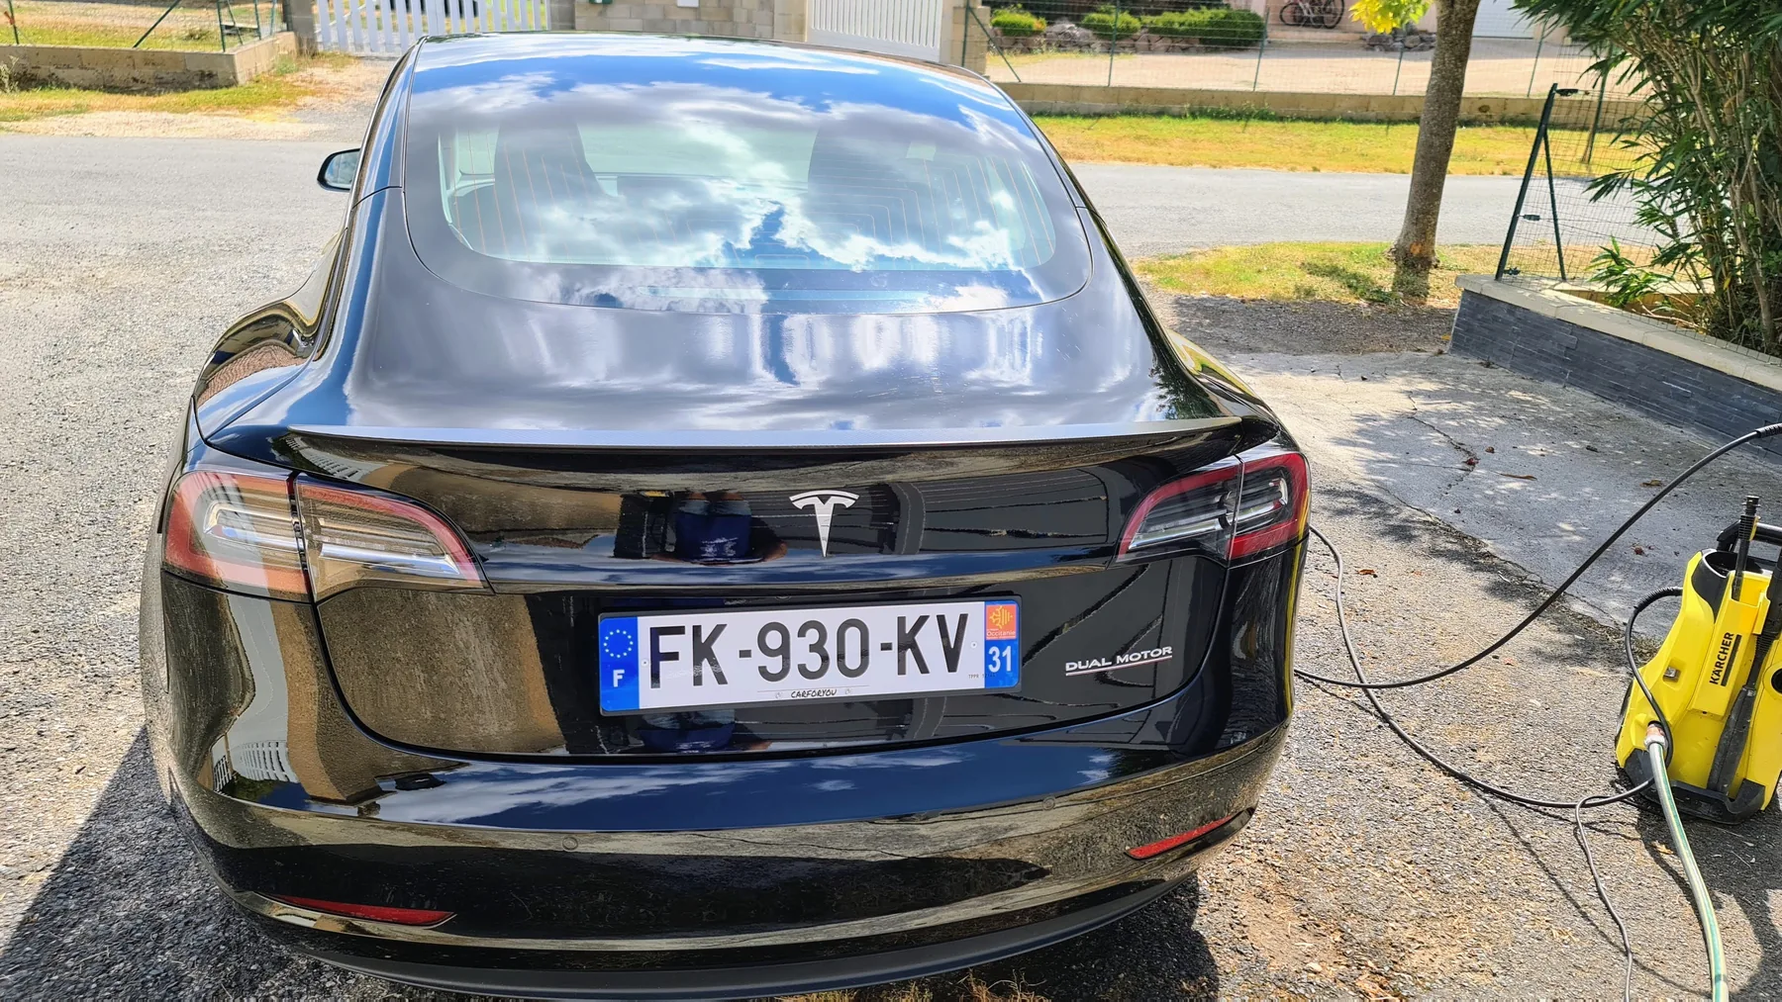
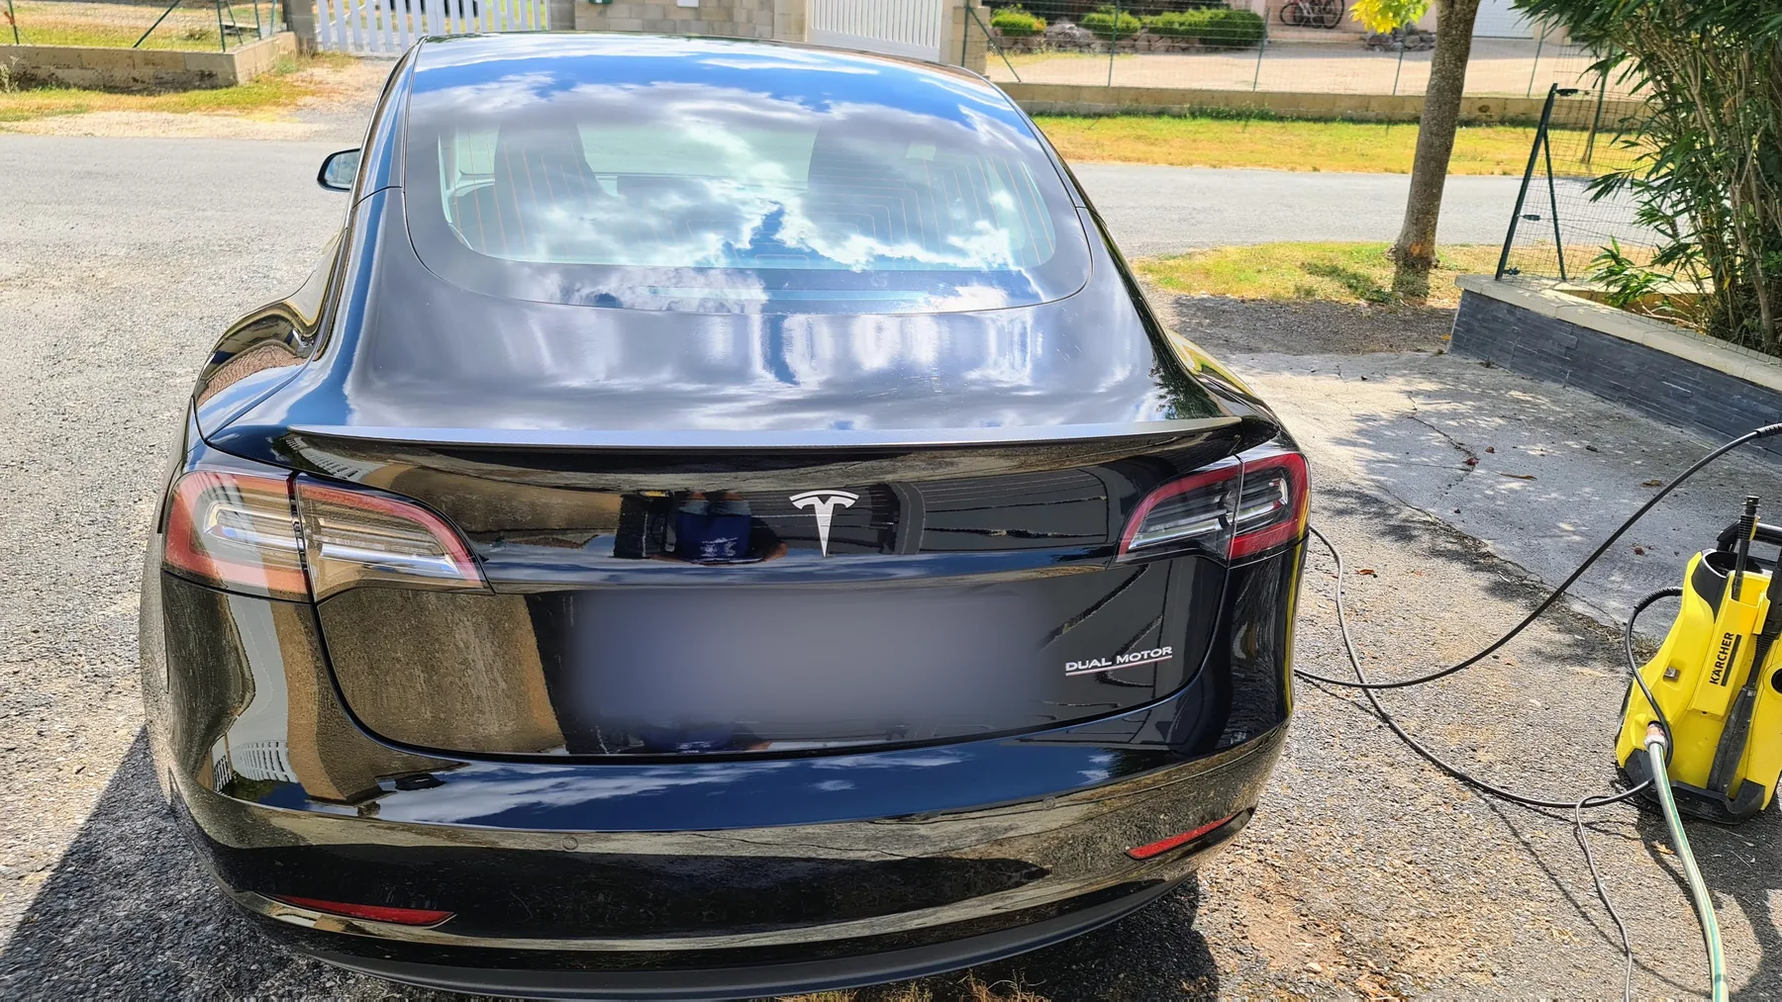
Site : plaques floutées, téléphone éclaté, loupe plus petite
Plaques d'immatriculation floutées sur les photos publiées (depuis les
originaux). Bande d'écrans remplacée par un chapitre où le téléphone
arrive en couches séparées puis se rassemble et fait défiler les six
écrans, d'après Shopify Editions été 2025. Vrai modèle de téléphone en
CSS, écrans en entier, barre d'état à la couleur de l'écran ; le
téléphone de la confirmation arrive penché puis se redresse. Loupe
réduite.

Claude-Session: https://claude.ai/code/session_01Q9LMgksHeGtcsjxrswezw4

Changed region(s): [[0.3111, 0.5508, 0.5911, 0.7345]]

diff --git a/site/index.html b/site/index.html
@@ -174,19 +174,6 @@ img { max-width: 100%; display: block; }
 .entree { display: grid; grid-template-columns: minmax(0, 6fr) minmax(0, 5fr); gap: clamp(32px, 6vw, 88px); align-items: end; }
 @media (max-width: 860px) { .entree { grid-template-columns: minmax(0, 1fr); align-items: start; gap: 24px; } }
 
-/* pellicule du parcours */
-.pellicule { margin: clamp(48px, 7vw, 88px) 0 0; display: grid; grid-template-columns: repeat(6, minmax(0, 1fr)); gap: clamp(12px, 1.6vw, 22px); list-style: none; padding: 0; }
-.pellicule li { min-width: 0; }
-.pellicule a { text-decoration: none; display: grid; gap: 10px; }
-.pellicule .ecran { border-radius: clamp(12px, 1.4vw, 20px); overflow: hidden; aspect-ratio: 780 / 1060; background: var(--surface); box-shadow: 0 18px 40px -24px rgba(16, 27, 69, .55); transition: transform .5s var(--ease); }
-.pellicule .ecran img { width: 100%; height: 100%; object-fit: cover; object-position: top; }
-.pellicule a:hover .ecran { transform: translateY(-8px) rotate(-.6deg); }
-.pellicule .etape { font-family: var(--serif); font-style: italic; color: var(--accent); font-size: 16px; margin-top: 4px; }
-.pellicule h3 { margin: 0; font-size: clamp(1.02rem, 1.3vw, 1.2rem); font-stretch: 80%; font-weight: 700; line-height: 1.1; color: var(--fort); }
-@media (max-width: 980px) {
-  .pellicule { grid-template-columns: none; grid-auto-flow: column; grid-auto-columns: minmax(180px, 42vw); overflow-x: auto; scroll-snap-type: x mandatory; padding-bottom: 12px; }
-  .pellicule li { scroll-snap-align: start; }
-}
 
 /* estimateur */
 .estimateur { margin-top: clamp(40px, 6vw, 72px); display: grid; grid-template-columns: minmax(0, 5fr) minmax(0, 6fr); gap: clamp(24px, 5vw, 72px); align-items: start; }
@@ -257,13 +244,10 @@ img { max-width: 100%; display: block; }
 .etats .pastille { width: 14px; height: 14px; border-radius: 50%; margin-top: 7px; border: 1px solid color-mix(in srgb, var(--t) 40%, transparent); }
 .etats h3 { margin: 0; font-size: clamp(1.2rem, 1.9vw, 1.5rem); font-stretch: 80%; line-height: 1.15; }
 .etats p { grid-column: 2; margin: 0; font-family: var(--serif); font-size: 17px; color: var(--t2); transition: color .6s var(--ease); }
-.telephone { position: relative; width: clamp(230px, 24vw, 320px); aspect-ratio: 780 / 1687; border-radius: clamp(34px, 4vw, 46px); padding: 10px; background: #0B0F22; box-shadow: 0 50px 80px -40px rgba(5, 10, 30, .75), inset 0 0 0 1.5px #2A3354; }
-.telephone .vitre { position: relative; width: 100%; height: 100%; border-radius: clamp(26px, 3.2vw, 36px); overflow: hidden; background: #EAF0FA; }
-.telephone img { position: absolute; inset: 0; width: 100%; height: 100%; object-fit: cover; object-position: top; opacity: 0; transition: opacity .7s var(--ease); }
-.telephone img.vu { opacity: 1; }
 @media (max-width: 820px) {
   .teinte-grille { grid-template-columns: minmax(0, 1fr); }
-  .teinte .telephone { position: absolute; right: max(16px, env(safe-area-inset-right, 0px)); bottom: 24px; width: 34vw; max-width: 170px; }
+  .teinte .scene-tel { position: absolute; right: max(16px, env(safe-area-inset-right, 0px)); bottom: 24px; }
+  .teinte .tel { --w: 150px; }
   .etats { max-width: 58vw; } .etats p { display: none; }
 }
 
@@ -345,6 +329,66 @@ img { max-width: 100%; display: block; }
 .copie-etat { font-size: 14px; color: var(--feuille); min-height: 1.4em; margin-top: 10px; }
 .pied { margin-top: clamp(64px, 10vw, 140px); padding-top: 24px; border-top: 1px solid var(--nuit-ligne); display: flex; flex-wrap: wrap; gap: 8px 32px; justify-content: space-between; font-size: 13px; color: var(--nuit-texte2); }
 
+/* le téléphone : un vrai modèle, l'écran en entier, une barre d'état à la couleur de l'écran */
+.scene-tel { perspective: 1800px; perspective-origin: 50% 40%; display: grid; place-items: center; }
+.tel { --w: clamp(230px, 20vw, 300px); position: relative; width: var(--w); aspect-ratio: 1 / 2.1884; transform-style: preserve-3d; will-change: transform; }
+.atelier { --wg: clamp(250px, min(24vw, 34vh), 420px); }
+.tel-grand { --w: var(--wg); }
+.tel-corps {
+  position: absolute; inset: 0; border-radius: calc(var(--w) * .165);
+  background: linear-gradient(150deg, #4A505E 0%, #1B1E25 22%, #0C0D11 60%, #2B2F39 100%);
+  box-shadow: inset 0 0 0 calc(var(--w) * .005) rgba(255, 255, 255, .28), inset 0 0 0 calc(var(--w) * .028) #08090C,
+    0 calc(var(--w) * .2) calc(var(--w) * .3) calc(var(--w) * -.12) rgba(10, 16, 41, .55), 0 calc(var(--w) * .05) calc(var(--w) * .08) calc(var(--w) * -.04) rgba(10, 16, 41, .35);
+  transform: translateZ(calc(var(--e, 0px) * -1.4));
+}
+.tel-corps::before, .tel-corps::after { content: ""; position: absolute; width: calc(var(--w) * .014); border-radius: 2px; background: linear-gradient(90deg, #22252D, #4A505E); }
+.tel-corps::before { left: calc(var(--w) * -.012); top: 20%; height: 7%; box-shadow: 0 calc(var(--w) * .2) 0 #2A2E37; }
+.tel-corps::after { right: calc(var(--w) * -.012); top: 27%; height: 11%; }
+.tel-ecran { position: absolute; inset: calc(var(--w) * .032); border-radius: calc(var(--w) * .135); overflow: hidden; background: #000; display: flex; flex-direction: column; }
+.tel-barre { flex: none; height: calc(var(--w) * .1); display: flex; align-items: center; justify-content: space-between; padding: calc(var(--w) * .012) calc(var(--w) * .085) 0;
+  font: 600 calc(var(--w) * .044) / 1 var(--sans); letter-spacing: .01em; background: var(--barre); color: var(--barre-encre); transition: background .5s var(--ease), color .5s var(--ease); }
+.tel-icones { display: flex; gap: calc(var(--w) * .014); align-items: center; }
+.tel-icones svg { height: calc(var(--w) * .036); width: auto; fill: currentColor; }
+.tel-vue { position: relative; flex: 1; overflow: hidden; background: var(--barre); }
+.tel-vue img { display: block; width: 100%; height: auto; }
+.tel-pile { transform: translateY(calc(var(--s, 0) * var(--w) * -2.0244)); will-change: transform; }
+.tel-vue.fondu img { position: absolute; inset: 0 0 auto 0; opacity: 0; transition: opacity .7s var(--ease); }
+.tel-vue.fondu img.vu { opacity: 1; }
+.tel-ilot { position: absolute; top: calc(var(--w) * .055); left: 50%; width: calc(var(--w) * .3); height: calc(var(--w) * .085); margin-left: calc(var(--w) * -.15); border-radius: 999px; background: #000; transform: translateZ(calc(var(--e, 0px) * 1.1)); }
+.tel::after {
+  content: ""; position: absolute; inset: calc(var(--w) * .032); border-radius: calc(var(--w) * .135); pointer-events: none;
+  background: linear-gradient(115deg, rgba(255, 255, 255, .14) 0%, rgba(255, 255, 255, 0) 28%, rgba(255, 255, 255, 0) 70%, rgba(255, 255, 255, .05) 100%);
+  transform: translateZ(calc(var(--e, 0px) * 1.2));
+}
+/* les éclats : trois tranches du premier écran, qui flottent puis se rassemblent */
+.eclat {
+  position: absolute; left: calc(var(--w) * .032); width: calc(var(--w) * .936);
+  top: calc(var(--w) * (.132 + var(--y0) * 2.0244)); height: calc(var(--w) * var(--h) * 2.0244);
+  background: url("assets/ecrans/accueil.webp") 0 calc(var(--w) * var(--y0) * -2.0244) / 100% auto no-repeat;
+  transform: translateZ(calc(var(--e, 0px) * var(--z))); opacity: var(--eclats, 0); border-radius: calc(var(--w) * .02);
+  box-shadow: 0 0 0 1px rgba(168, 188, 247, calc(var(--lueur, 0) * .95)), 0 0 calc(var(--w) * .12) rgba(57, 84, 181, calc(var(--lueur, 0) * .7)), 0 calc(var(--w) * .06) calc(var(--w) * .1) rgba(10, 16, 41, calc(var(--lueur, 0) * .35));
+}
+.eclat:nth-of-type(3) { border-radius: 0 0 calc(var(--w) * .135) calc(var(--w) * .135); }
+
+/* le chapitre éclaté : sticky, le téléphone au centre, les notes de part et d'autre */
+.atelier { height: 520vh; position: relative; margin-top: clamp(24px, 4vw, 48px); }
+.atelier-collant { position: sticky; top: 0; height: 100svh; min-height: 640px; display: grid; place-items: center; }
+.notes { list-style: none; margin: 0; padding: 0; position: absolute; inset: 0; pointer-events: none; }
+.note { position: absolute; top: 50%; width: min(330px, 28vw); opacity: 0; transition: opacity .6s var(--ease), transform .8s var(--ease); }
+.note.gauche { right: calc(50% + var(--wg) / 2 + clamp(48px, 5vw, 96px)); transform: translate(-24px, -50%); text-align: right; }
+.note.droite { left: calc(50% + var(--wg) / 2 + clamp(48px, 5vw, 96px)); transform: translate(24px, -50%); }
+.note.actif { opacity: 1; transform: translate(0, -50%); }
+.note .etape { font-family: var(--serif); font-style: italic; font-size: 1.15rem; color: var(--accent); }
+.note h3 { margin: 4px 0 10px; font-family: var(--serif); font-style: italic; font-weight: 400; font-size: clamp(1.8rem, 2.6vw, 2.5rem); line-height: 1.05; color: var(--fort); font-feature-settings: "swsh" 1; }
+.note p { margin: 0; font-size: 15px; color: var(--texte2); line-height: 1.5; }
+@media (max-width: 820px) {
+  .atelier-collant { align-items: start; padding-top: 80px; }
+  .atelier { --wg: clamp(180px, 44vw, 230px); }
+  .note { top: auto; bottom: 28px; left: 16px !important; right: 16px !important; width: auto; text-align: left !important; transform: translateY(16px) !important; }
+  .note.actif { transform: none !important; }
+  .note h3 { font-size: 1.6rem; margin: 2px 0 6px; }
+}
+
 /* logo-volant */
 .marque .volant { width: 30px; height: 30px; flex: none; background: currentColor; -webkit-mask: url("assets/logo-volant.png") center / contain no-repeat; mask: url("assets/logo-volant.png") center / contain no-repeat; will-change: transform; }
 
@@ -407,7 +451,7 @@ img { max-width: 100%; display: block; }
 
 @media (prefers-reduced-motion: reduce) {
   html { scroll-behavior: auto; }
-  .panneau, .vehicule-carte img, .pellicule .ecran, .inverser { transition: none; }
+  .panneau, .vehicule-carte img, .inverser { transition: none; }
 }
 </style>
 
@@ -453,14 +497,21 @@ img { max-width: 100%; display: block; }
         <h2 class="titre" id="titre-reserver">De « Où allez-vous ? » au panneau à votre nom</h2>
         <p class="texte">Vous voyez le prix avant de laisser vos coordonnées. Vol ou train, bagages et attente gratuite sont demandés dès le départ, pas cachés en option.</p>
       </div>
-      <ol class="pellicule">
-        <li><a href="#trajet"><span class="ecran"><img src="assets/ecrans/accueil.webp" alt="Écran d'accueil : Où allez-vous ? avec départ, arrivée et raccourcis aéroport et gares" loading="lazy"></span><span class="etape">un</span><h3>Où allez-vous ?</h3></a></li>
-        <li><a href="#prix"><span class="ecran"><img src="assets/ecrans/trajet.webp" alt="Écran du trajet : date, heure de prise en charge et type de trajet" loading="lazy"></span><span class="etape">deux</span><h3>Date et heure</h3></a></li>
-        <li><a href="#prix"><span class="ecran"><img src="assets/ecrans/vehicule.webp" alt="Choix du véhicule avec le prix de chaque offre" loading="lazy"></span><span class="etape">trois</span><h3>Le véhicule, et son prix</h3></a></li>
-        <li><a href="#vehicules"><span class="ecran"><img src="assets/ecrans/recap.webp" alt="Récapitulatif de la course avant l'envoi de la demande" loading="lazy"></span><span class="etape">quatre</span><h3>Le récapitulatif</h3></a></li>
-        <li><a href="#teinte"><span class="ecran"><img src="assets/ecrans/delai.webp" alt="Demande envoyée, en attente de Fabrice, réponse sous 30 minutes" loading="lazy"></span><span class="etape">cinq</span><h3>Demande envoyée</h3></a></li>
-        <li><a href="#panneau"><span class="ecran"><img src="assets/ecrans/confirmee.webp" alt="Course confirmée, l'écran passe à l'indigo" loading="lazy"></span><span class="etape">six</span><h3>Course confirmée</h3></a></li>
-      </ol>
+    </div>
+    <div class="atelier" id="atelier">
+      <div class="atelier-collant">
+        <ol class="notes"><li class="note gauche" data-barre="#0F1B44" data-encre="#fff"><span class="etape">Étape un</span><h3>Où allez-vous ?</h3><p>Raccourcis Toulouse-Blagnac et gares d'Albi, Castres, Carcassonne. Votre prochaine course juste en dessous.</p></li><li class="note droite" data-barre="#F3F5F9" data-encre="#121A33"><span class="etape">Étape deux</span><h3>Date, heure, vol ou train</h3><p>Le tarif de jour ou majoré s'affiche dès que vous choisissez l'heure. Votre vol ou votre train est suivi.</p></li><li class="note gauche" data-barre="#F3F5F9" data-encre="#121A33"><span class="etape">Étape trois</span><h3>Le véhicule, et son prix</h3><p>Les deux offres côte à côte, avec le calcul : kilomètres × tarif. Rien de caché.</p></li><li class="note droite" data-barre="#F3F5F9" data-encre="#121A33"><span class="etape">Étape quatre</span><h3>Le récapitulatif</h3><p>Attente gratuite et conditions d'annulation écrites avant l'envoi. Pas de compte à créer.</p></li><li class="note gauche" data-barre="#E2E9F9" data-encre="#121A33"><span class="etape">Étape cinq</span><h3>Demande envoyée</h3><p>Fabrice s'est donné 30 minutes pour confirmer ; un compte à rebours vous le montre.</p></li><li class="note droite" data-barre="#1E3279" data-encre="#fff"><span class="etape">Étape six</span><h3>Course confirmée</h3><p>L'écran passe à l'indigo. Vous êtes prévenu par notification, SMS et email.</p></li></ol>
+        <div class="scene-tel">
+          <div class="tel tel-grand" id="tel-atelier" style="--barre:#0F1B44;--barre-encre:#fff">
+            <div class="tel-corps"></div>
+            <div class="tel-ecran"><div class="tel-barre"><span>9:41</span><span class="tel-icones"><svg viewBox="0 0 18 12" aria-hidden="true"><rect x="0" y="8" width="3" height="4" rx=".8"/><rect x="5" y="5.5" width="3" height="6.5" rx=".8"/><rect x="10" y="3" width="3" height="9" rx=".8"/><rect x="15" y="0" width="3" height="12" rx=".8"/></svg><svg viewBox="0 0 16 12" aria-hidden="true"><path d="M8 11.5l2.4-3a3.6 3.6 0 0 0-4.8 0zM3.1 6.3a7.2 7.2 0 0 1 9.8 0l1.5-1.8a9.7 9.7 0 0 0-12.8 0zM.2 2.6a11.6 11.6 0 0 1 15.6 0" fill="currentColor"/></svg><svg viewBox="0 0 27 12" aria-hidden="true"><rect x=".5" y=".5" width="23" height="11" rx="3.2" fill="none" stroke="currentColor" opacity=".5"/><rect x="2.2" y="2.2" width="17" height="7.6" rx="1.8"/><path d="M25 4v4a2 2 0 0 0 0-4z" opacity=".5"/></svg></span></div><div class="tel-vue"><div class="tel-pile"><img src="assets/ecrans/accueil.webp" alt="Où allez-vous ?" loading="lazy"><img src="assets/ecrans/trajet.webp" alt="Date, heure, vol ou train" loading="lazy"><img src="assets/ecrans/vehicule.webp" alt="Le véhicule, et son prix" loading="lazy"><img src="assets/ecrans/recap.webp" alt="Le récapitulatif" loading="lazy"><img src="assets/ecrans/delai.webp" alt="Demande envoyée" loading="lazy"><img src="assets/ecrans/confirmee.webp" alt="Course confirmée" loading="lazy"></div></div></div>
+            <div class="eclat" style="--z:1;--y0:0;--h:.25"></div>
+            <div class="eclat" style="--z:2;--y0:.25;--h:.37"></div>
+            <div class="eclat" style="--z:3;--y0:.62;--h:.38"></div>
+            <div class="tel-ilot"></div>
+          </div>
+        </div>
+      </div>
     </div>
   </section>
 
@@ -548,11 +599,15 @@ img { max-width: 100%; display: block; }
             <li><span class="pastille" style="background:#1E3277"></span><h3>Course confirmée</h3><p>Indigo profond. Une fois la course terminée, elle passe au bleu délavé.</p></li>
           </ol>
         </div>
-        <div class="telephone" aria-hidden="true">
-          <div class="vitre">
-            <img src="assets/ecrans/delai.webp" alt="" class="vu">
-            <img src="assets/ecrans/encre.webp" alt="">
-            <img src="assets/ecrans/confirmee.webp" alt="">
+        <div class="scene-tel" aria-hidden="true">
+          <div class="tel" id="tel-teinte" style="--barre:#E2E9F9;--barre-encre:#121A33">
+            <div class="tel-corps"></div>
+            <div class="tel-ecran"><div class="tel-barre"><span>9:41</span><span class="tel-icones"><svg viewBox="0 0 18 12" aria-hidden="true"><rect x="0" y="8" width="3" height="4" rx=".8"/><rect x="5" y="5.5" width="3" height="6.5" rx=".8"/><rect x="10" y="3" width="3" height="9" rx=".8"/><rect x="15" y="0" width="3" height="12" rx=".8"/></svg><svg viewBox="0 0 16 12" aria-hidden="true"><path d="M8 11.5l2.4-3a3.6 3.6 0 0 0-4.8 0zM3.1 6.3a7.2 7.2 0 0 1 9.8 0l1.5-1.8a9.7 9.7 0 0 0-12.8 0zM.2 2.6a11.6 11.6 0 0 1 15.6 0" fill="currentColor"/></svg><svg viewBox="0 0 27 12" aria-hidden="true"><rect x=".5" y=".5" width="23" height="11" rx="3.2" fill="none" stroke="currentColor" opacity=".5"/><rect x="2.2" y="2.2" width="17" height="7.6" rx="1.8"/><path d="M25 4v4a2 2 0 0 0 0-4z" opacity=".5"/></svg></span></div><div class="tel-vue fondu">
+              <img src="assets/ecrans/delai.webp" alt="" class="vu">
+              <img src="assets/ecrans/encre.webp" alt="">
+              <img src="assets/ecrans/confirmee.webp" alt="">
+            </div></div>
+            <div class="tel-ilot"></div>
           </div>
         </div>
       </div>
@@ -945,7 +1000,7 @@ gl_FragColor=vec4(col,1.0);}`;
       t.rendu = now => {
         const r = scene.getBoundingClientRect();
         const dedans = souris.ok && souris.x > r.left && souris.x < r.right && souris.y > r.top && souris.y < r.bottom;
-        const cible = dedans && t.p > .3 && !reduit ? Math.min(r.width, r.height) * .2 : 0;
+        const cible = dedans && t.p > .3 && !reduit ? Math.min(r.width, r.height) * .075 : 0;
         t.loupe = (t.loupe || 0) + (cible - (t.loupe || 0)) * .12;
         gl.uniform2f(uM, (souris.sx - r.left) * dpr, (r.height - (souris.sy - r.top)) * dpr);
         gl.uniform1f(uL, t.loupe * dpr);
@@ -991,11 +1046,13 @@ vec3 col=mix(eau,dense,m);col*=1.0-0.16*dot(p,p)*m;gl_FragColor=vec4(col,1.0);}`
   /* ---------- Défilement ---------- */
   const entete = $('#entete'), index = $('#index'), teinte = $('#teinte');
   const sections = $$('main > section');
-  const etats = $$('#etats li'), ecrans = $$('.teinte .telephone img');
+  const etats = $$('#etats li'), ecrans = $$('#tel-teinte .tel-vue img');
   const liens = $$('#index a');
   const chapitres = liens.map(a => { const c = document.getElementById(a.getAttribute('href').slice(1)); const avant = c.previousElementSibling; return avant && avant.classList.contains('tableau') ? avant : c; });
   const premier = $('.tableau');
   const lautrec = $('#lautrec');
+  const atelier = $('#atelier'), telA = $('#tel-atelier'), vueA = $('#tel-atelier .tel-vue'), notesA = $$('#atelier .note'), telT = $('#tel-teinte');
+  let etapeA = -1;
 
   function auDefilement() {
     const h = innerHeight;
@@ -1011,14 +1068,41 @@ vec3 col=mix(eau,dense,m);col*=1.0-0.16*dot(p,p)*m;gl_FragColor=vec4(col,1.0);}`
     }
     const rl = lautrec.getBoundingClientRect();
     lautrec.style.setProperty('--r', reduit ? 1 : lisseur(0, .75, (h - rl.top) / (h * .9)).toFixed(3));
+    // le chapitre éclaté
+    const ra = atelier.getBoundingClientRect();
+    if (ra.bottom > -h && ra.top < h * 2) {
+      const qa = borne(-ra.top / (ra.height - h));
+      const a = reduit ? 1 : lisseur(0, .2, qa);
+      const w = telA.offsetWidth;
+      telA.style.setProperty('--e', ((1 - a) * w * .34).toFixed(1) + 'px');
+      telA.style.setProperty('--lueur', (1 - a).toFixed(3));
+      telA.style.setProperty('--eclats', (1 - lisseur(.94, 1, a)).toFixed(3));
+      vueA.style.opacity = lisseur(.9, 1, a).toFixed(3);
+      const k = 1 - a;
+      telA.style.transform = `translateY(${(k * 40).toFixed(1)}px) rotateX(${(k * 56).toFixed(2)}deg) rotateY(${(k * -14).toFixed(2)}deg) rotateZ(${(k * -30).toFixed(2)}deg) scale(${(.86 + .14 * a).toFixed(3)})`;
+      const b = borne((qa - .24) / .7) * 5, i = Math.floor(b), f = b - i;
+      const sv = Math.min(5, i + lisseur(.5, 1, f));
+      telA.style.setProperty('--s', sv.toFixed(4));
+      const etape = Math.min(5, Math.round(sv));
+      notesA.forEach((n, j) => n.classList.toggle('actif', a > .85 && j === etape));
+      if (etape !== etapeA) {
+        etapeA = etape;
+        telA.style.setProperty('--barre', notesA[etape].dataset.barre); telA.style.setProperty('--barre-encre', notesA[etape].dataset.encre);
+      }
+    }
     const rt = teinte.getBoundingClientRect();
     const p = borne(-rt.top / (rt.height - h));
+    // le téléphone de la confirmation arrive penché, puis se redresse
+    const pente = reduit ? 0 : 1 - lisseur(0, .22, p);
+    telT.style.transform = `rotateX(${(pente * 16).toFixed(2)}deg) rotateY(${(pente * -26).toFixed(2)}deg) rotateZ(${(pente * 5).toFixed(2)}deg) translateY(${(pente * 30).toFixed(1)}px)`;
+
     cuveVisible = rt.bottom > 0 && rt.top < h;
     cuve.style.visibility = cuveVisible ? 'visible' : 'hidden';
     niveauCible = rt.top < h * .5 ? borne((p - .15) / .45) : 0;
     const i = p < .3 ? 0 : p < .62 ? 1 : 2;
     etats.forEach((li, k) => li.classList.toggle('actif', k === i));
     ecrans.forEach((im, k) => im.classList.toggle('vu', k === i));
+    telT.style.setProperty('--barre', ['#E2E9F9', '#181A45', '#1E3279'][i]); telT.style.setProperty('--barre-encre', i ? '#fff' : '#121A33');
     teinte.dataset.encre = rt.top < h * .5 && p > .5 ? '1' : '0';
     const tonA = y => {
       for (const s of sections) { const r = s.getBoundingClientRect(); if (r.top <= y && r.bottom > y) {

diff --git a/site/README.md b/site/README.md
@@ -28,7 +28,13 @@ cartes, vignettes carrées de 640 px pour le garage).
 
 - **Le logo-volant** dans l'en-tête braque quand on fait défiler la page, puis revient droit.
 - **La loupe** : quand une photo est devenue gravure, le curseur révèle la vraie photo en couleur
-  dans un cercle bordé de paillettes.
+  dans un petit cercle bordé de paillettes.
+- **Le téléphone éclaté** (d'après Shopify Editions été 2025) : dans le chapitre I, le téléphone
+  arrive en couches séparées (coque, trois tranches d'écran, îlot) avec un liseré indigo, se
+  rassemble, puis fait défiler les six écrans du parcours avec une note par étape. Téléphone dessiné
+  en CSS (cadre, îlot, boutons, barre d'état à la couleur de l'écran) ; écrans affichés en entier.
+- **Plaques d'immatriculation floutées** sur toutes les photos publiées (le flou est appliqué depuis
+  les originaux ; les originaux dans `site/images/` restent intacts).
 - **Le garage** (d'après la page d'accueil des Shopify Editions) : deux étagères de pochettes ; au
   survol, la pochette sort de l'étagère ; au clic, la photo s'ouvre en grand (flèches du clavier,
   Échap pour fermer).
